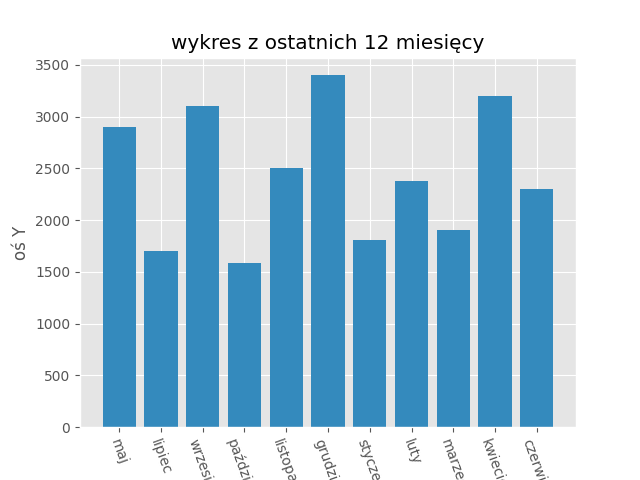
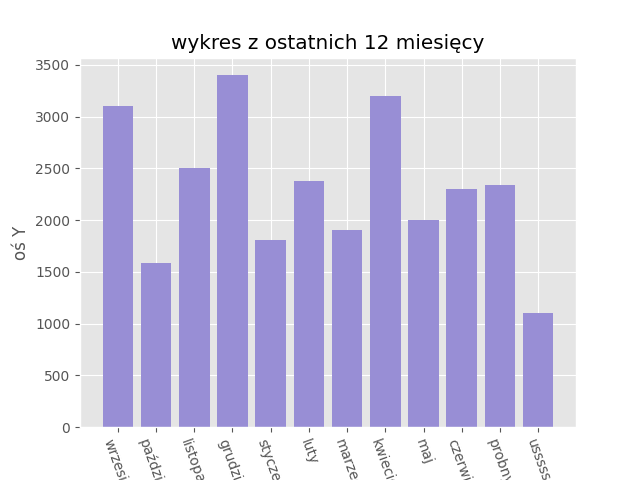
budget calculations

diff --git a/budget_app/templates/budget.html b/budget_app/templates/budget.html
@@ -3,16 +3,15 @@
 {% block content %}
 
     <a href="{% url 'months-budget' %}"><strong>&nbsp;Dotychczasowe budżety -></strong></a><br>
-
     <br><br>
     Aktualne pozycje w Twoim budżecie:<br>
-    Jeśli coś już jest nieaktualne - wyrzuć pozycję!
+    <small>Jeśli coś już jest nieaktualne - wyrzuć pozycję!</small>
 <br>
     <table border="1">
         <tr>
         <th>Nazwa</th>
         <th>Kwota</th>
-        <th>Kwota max???</th>
+        <th>Dopłata?</th>
         <th>Miesięcznie?</th>
         <th>Opis</th>
         <th>Obliczyć?</th>
@@ -23,17 +22,15 @@
         <tr>
         <td>{{ element.name }}</td>
         <td>{{ element.money_min }}</td>
-
         <td>
-<input type="checkbox" name="dolicz" value="dolicz" onclick="document.getElementById('dodatkowo').style.display = this.checked ? 'block' : 'none'; this.form.elements['dolicz2'].disabled = !this.checked">
-<div id="dodatkowo" style="display: none">
-<input type="number" step="any" name="dolicz2">
+     <form action="" method="post">
+         {% csrf_token %}
+<input type="checkbox" name="dolicz{{ element.id }}"
+onclick="document.getElementById('dodatkowo{{ element.id }}').style.display = this.checked ?
+        'block' : 'none'; this.form.elements['{{ element.id }}'].disabled = !this.checked">
+<div id="dodatkowo{{ element.id }}" style="display: none">
+<input type="number" step="any" name="{{ element.id }}">
 </div>
-
-{#            {% if element.money_max %}#}
-{#            {{ element.money_max }}#}
-{#            {% else %}&nbsp;#}
-{#            {% endif %}#}
         </td>
 
         <td>{% if element.monthly == True %}
@@ -43,8 +40,7 @@
             {% endif %}</td>
 
         <td>{{ element.opis }}</td>
-        <td>         <form action="" method="post">
-         {% csrf_token %}
+        <td>
             {% if element.monthly == True %}
             <input type="checkbox" name="zapasowa" value="{{ element.money_min }}" checked>
             {% elif element.monthly == False %} &nbsp;
@@ -56,30 +52,32 @@
         <td><a href="{% url 'delete-budget' element.id %}"> Usuń</a></td>
         </tr>
     {% endfor %}
-</table><input type="submit" value="oblicz">
+</table><input type="submit" value="oblicz wydatki">
      </form>
     <br>
-    Opłaty na miesiąc - minimum {{ kalkulacje }} <br>
-    ******** + ?
-<br>
-    <br>
 
-     <a href="{% url 'budget' %}">&nbsp;Zapisz miesięczny budżet -></a><br>
-     <a href="{% url 'budget' %}">&nbsp; + ?? -></a><br>
-<br>
+        {% if my_sum %}    <br>
+                Twoje obliczenia: {{ my_sum }}<br>
+            <a href="{% url 'months-budget-proposition3' %}"><button>
+            Zapisz Twoje wyliczenia jako wydatki na ten miesiąc
+            </button></a><br>
+    {% endif %}
+<br><br>
          <form action="" method="post">
          {% csrf_token %}
-             <br><strong>Dodaj nową pozycję do budżetu:</strong><br>
+               <fieldset>
+                  <legend>Dodaj nową pozycję do budżetu</legend>
+
     Nazwa<input type="text" name="name"><br>
     Kwota min<input type="text" name="money_min"><br>
-    Kwota max (rzeczywista, z dodatk. kosztami)<input type="text" name="money_max"><br>
+
     Miesięcznie?<br>
              TAK<input type="radio" value="True" name="monthly"><br>
             NIE<input type="radio" value="False" name="monthly"><br>
 
     Dodatkowy opis<input type="text" name="opis"><br>
 
-         <input type="submit" value="send">
+         <input type="submit" value="send"></fieldset>
      </form>
 
 {% endblock %}

diff --git a/budget_app/templates/budget-months.html b/budget_app/templates/budget-months.html
@@ -1,7 +1,8 @@
 {% extends "base.html" %}
 {% load static %}
 {% block content %}
-        <table border="1">
+            <img src="{% static "wykres.png" %}" alt="Not found" ><br><br>
+    <table border="1">
         <tr>
         <th>Nazwa</th>
         <th>Kwota</th>
@@ -23,10 +24,8 @@
          <form action="" method="post">
          {% csrf_token %}
              <br><strong>Dodaj nową pozycję:</strong><br>
-    Krótka nazwa<input type="text" name="chosen_name_of_month"><br>
-    Kwota<input type="text" name="month_cost"><br>
-    Opis?<input type="text" name="description"><br>
+             {{form.as_p}}
          <input type="submit" value="send">
      </form><br>
-    <img src="{% static "wykres.png" %}" alt="Not found" >
+
 {% endblock %}

diff --git a/budget_app/templates/budget-months-3.html b/budget_app/templates/budget-months-3.html
@@ -1,0 +1,14 @@
+{% extends "base.html" %}
+
+{% block content %}
+
+         <form action="" method="post">
+         {% csrf_token %}
+             {{form.as_p}}
+         <input type="submit" value="send">
+     </form>
+
+    <br>
+
+
+{% endblock %}

diff --git a/budget_app/views.py b/budget_app/views.py
@@ -1,3 +1,5 @@
+from datetime import date
+
 import requests
 from bs4 import BeautifulSoup
 from django.contrib.auth import logout, login, authenticate
@@ -58,53 +60,88 @@ def wykres_month():
     savefig('static/wykres.png')
 
 
-class BudgetView(View):
+class BudgetView(View):#
 
     def get(self, request):
         pozycje=Budget.objects.all()
         form = BudgetForm()
         wykres_month()
-
-        for_calculation = []
-        kalkulacje = 0
-        for element in pozycje:
-            # for_calculation = np.array(element.money_min, dtype=np.float32)
-            for_calculation.append(element.money_min)
-            # for_calculation = [float(element.money_min) for element.money_min in pozycje]
-        for elem in for_calculation:
-            kalkulacje += elem
-        return render(request, 'budget.html', {"pozycje":pozycje, "form":form, "kalkulacje":kalkulacje})
+        return render(request, 'budget.html', {"pozycje":pozycje, "form":form})
 
     def post(self, request):
-        zapasowa = request.POST.get('zapasowa')
-        dolicz2 = request.POST.get('dolicz2')
+        pozycje=Budget.objects.all()
+        # for_calculation = []
+        # kalkulacje = 0
+        # for element in pozycje:
+        #     for_calculation.append(element.money_min)
+        # for elem in for_calculation:
+        #     kalkulacje += elem
+
+        doliczyc = []
+        zapasowa = request.POST.getlist('zapasowa')
+        for elements in pozycje:
+            doliczyc.append(request.POST.get(f'{elements.id}'))
+
         my_sum = 0
-        for elem in zapasowa:
-#############################################################################################33
-            new_elem=elem.replace(".", ",")
-            float(new_elem)
-            my_sum+=new_elem
-        # for element in dolicz2:
-        #     float(element)
-        #     my_sum+=element
+        while zapasowa != []:
+            elemencik = float(zapasowa.pop())
+            my_sum += elemencik
+        if doliczyc != []:
+            for ell in doliczyc:
+                if ell == '':
+                    pass
+                else:
+                    do_sumy=float(ell)
+                    my_sum += do_sumy
+
+        def set_session(request):
+            request.session["suma_przekazana"] = my_sum
+        set_session(request)
         form = BudgetForm(request.POST)
         if form.is_valid():
             name = form.cleaned_data['name']
             money_min = form.cleaned_data['money_min']
-            money_max = form.cleaned_data['money_max']
             monthly = form.cleaned_data['monthly']
             opis = form.cleaned_data['opis']
-            Budget.objects.create(name=name, money_min=money_min, money_max=money_max, monthly=monthly, opis=opis)
-            return render(request, 'budget.html', {"my_sum":my_sum, "pozycje":pozycje, "form":form, "kalkulacje":kalkulacje})
+            Budget.objects.create(name=name, money_min=money_min, monthly=monthly, opis=opis)
+            return render(request, 'budget.html', {"zapasowa":zapasowa,
+                                                   "my_sum":my_sum,
+                                                   "pozycje":pozycje,
+                                                   "doliczyc": doliczyc,
+                                                   "form":form})
+        return render(request, 'budget.html', {"zapasowa": zapasowa,
+                                               "my_sum": my_sum,
+                                               "doliczyc":doliczyc,
+                                               "pozycje": pozycje,
+                                               "form": form})
+
+class MonthsBudgetPropositionView(View):#
+
+    def get(self, request):
+        form = MonthsBudgetForm(initial={'month_cost': request.session.get("suma_przekazana"),
+                                         'month_date':date.today()})
+        return render(request, 'budget-months-3.html', {"form":form})
+
+    def post(self, request):
+        form = MonthsBudgetForm(request.POST)
+        if form.is_valid():
+            chosen_name_of_month = form.cleaned_data['chosen_name_of_month']
+            month_cost = form.cleaned_data['month_cost']
+            description = form.cleaned_data['description']
+            MonthsBudget.objects.create(chosen_name_of_month=chosen_name_of_month,
+                                        month_cost=month_cost,
+                                        description=description)
+            return redirect('months-budget')
 
 
-class MonthsBudgetView(View):
+class MonthsBudgetView(View):#
 
     def get(self, request):
         this_months_budget = MonthsBudget.objects.all()
         form = MonthsBudgetForm()
         wykresik = wykres_month()
-        return render(request, 'budget-months.html', {"this_months_budget":this_months_budget, "form":form, "wykresik":wykresik})
+        return render(request, 'budget-months.html', {"this_months_budget":this_months_budget,
+                                                      "form":form, "wykresik":wykresik})
 
     def post(self, request):
         form = MonthsBudgetForm(request.POST)
@@ -131,12 +168,10 @@ class ModifyBudget(View):
         if form.is_valid():
             name = form.cleaned_data['name']
             money_min = form.cleaned_data['money_min']
-            money_max = form.cleaned_data['money_max']
             monthly = form.cleaned_data['monthly']
             opis = form.cleaned_data['opis']
             pozycja.name=name
             pozycja.money_min=money_min
-            pozycja.money_max=money_max
             pozycja.monthly=monthly
             pozycja.opis=opis
             pozycja.save()
@@ -356,9 +391,6 @@ class Akc(View):
         znacznik_transakcje = soup.find(text="Transakcje").next_element.next_element
         transakcje = int(znacznik_transakcje.text.replace(" ", ""))
         # print(f"Podejście 2b, transakcje = {transakcje}")
-
-
-
 
         return render(request, 'akc.html', {"kurs":kurs,
                                             "value_of_cdr":value_of_cdr,

diff --git a/budget_app/forms.py b/budget_app/forms.py
@@ -4,14 +4,12 @@ from .views import *
 
 
 class BudgetForm(forms.ModelForm):
-    # address = forms.CharField(required=False)
     class Meta:
         model = Budget
-        exclude = ['zapasowa']
+        fields = '__all__'
     def __init__(self, *args, **kwargs):
         super(BudgetForm, self).__init__(*args, **kwargs)
         self.fields['opis'].required = False
-        self.fields['money_max'].required = False
 
 
 class SkarbonkiForm(forms.ModelForm):
@@ -27,7 +25,7 @@ class SkarbonkiForm(forms.ModelForm):
 class MonthsBudgetForm(forms.ModelForm):
     class Meta:
         model = MonthsBudget
-        fields = '__all__'
+        exclude = ['month_date']
     def __init__(self, *args, **kwargs):
         super(MonthsBudgetForm, self).__init__(*args, **kwargs)
         self.fields['description'].required = False

diff --git a/budget_app/migrations/0005_auto_20200620_1216.py b/budget_app/migrations/0005_auto_20200620_1216.py
@@ -1,0 +1,21 @@
+# Generated by Django 3.0.7 on 2020-06-20 12:16
+
+from django.db import migrations
+
+
+class Migration(migrations.Migration):
+
+    dependencies = [
+        ('budget_app', '0004_auto_20200619_1430'),
+    ]
+
+    operations = [
+        migrations.RemoveField(
+            model_name='budget',
+            name='money_max',
+        ),
+        migrations.RemoveField(
+            model_name='budget',
+            name='zapasowa',
+        ),
+    ]

diff --git a/budget_app/models.py b/budget_app/models.py
@@ -8,10 +8,8 @@ from django.urls import reverse
 class Budget(models.Model):
     name = models.CharField(max_length=64)
     money_min = models.FloatField()
-    money_max = models.FloatField(null=True)
     monthly = models.BooleanField(default=True)
     opis = models.TextField(null=True)
-    zapasowa = models.CharField(max_length=64, null=True)
 
     def __str__(self):
         return self.name

diff --git a/budget/urls.py b/budget/urls.py
@@ -37,5 +37,6 @@ urlpatterns = [
     path('delete-months/<int:pk>/', DeleteMonths.as_view(), name='delete-months'),
     path('modify-stock/<int:id>/', ModifyStock.as_view(), name='modify-stock'),
     path('delete-stock/<int:pk>/', DeleteStock.as_view(), name='delete-stock'),
+    path('months-budget-proposition3/', MonthsBudgetPropositionView.as_view(), name='months-budget-proposition3'),
 
 ]
